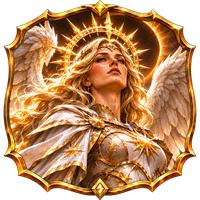
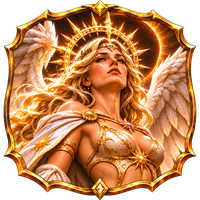
Gegner-Mix in der Kampagne, neue Bilder Leuchtturmwärterin, neues Aurel-Porträt
- Gefechte 1–3 Bronze, 4–8 Bronze und Silber mit gelegentlichem Gold, ab 9 immer Silber und Gold, Endgegner mit Gefolge
- Leuchtturmwärterin: Standard- und Sonderbild im Glutstein-Stil
- Neues Porträt der Erzseraphin Aurel
- Endgegner neu abgestimmt

Claude-Session: https://claude.ai/code/session_01WekbcN7x8tduXtes7QLsE3

diff --git a/sw.js b/sw.js
@@ -1,5 +1,5 @@
 /* Offline-Speicher der Web-App. Wird von build.py erzeugt, nicht von Hand bearbeiten (Vorlage: sw-vorlage.js). */
-const VERSION='glutstein-67c3e3dce9';
+const VERSION='glutstein-927b3192de';
 const DATEIEN=["./", "index.html", "manifest.webmanifest", "bilder/abgrundkoenigin.jpg", "bilder/alteiche-s.jpg", "bilder/alteiche.jpg", "bilder/apotheker.jpg", "bilder/aschekobold.jpg", "bilder/aschendrache-s.jpg", "bilder/aschendrache.jpg", "bilder/aurel.jpg", "bilder/baeuerin.jpg", "bilder/baumeisterin.jpg", "bilder/borkenbaer.jpg", "bilder/brandbogner-s.jpg", "bilder/brandbogner.jpg", "bilder/brunnending.jpg", "bilder/daemmerkatze.jpg", "bilder/dampfritter.jpg", "bilder/dornenhirsch-s.jpg", "bilder/dornenhirsch.jpg", "bilder/dornling.jpg", "bilder/dschinn.jpg", "bilder/einbaumfischer.jpg", "bilder/eklipsenwaechter.jpg", "bilder/enterkapitaen.jpg", "bilder/erfinderin.jpg", "bilder/ertrunkenerwaechter.jpg", "bilder/erwachter.jpg", "bilder/essenlehrling.jpg", "bilder/feuerschlucker.jpg", "bilder/feuerspeierin.jpg", "bilder/fischerin.jpg", "bilder/flammenhexe-s.jpg", "bilder/flammenhexe.jpg", "bilder/flammenkultistin.jpg", "bilder/fliegerass.jpg", "bilder/flugschuelerin.jpg", "bilder/funkenwicht-s.jpg", "bilder/funkenwicht.jpg", "bilder/gefallenerengel.jpg", "bilder/geisterqualle.jpg", "bilder/geisterschiff.jpg", "bilder/gesichtsloser.jpg", "bilder/gezeitenschamanin.jpg", "bilder/gezeitenwache-s.jpg", "bilder/gezeitenwache.jpg", "bilder/ghul.jpg", "bilder/giftpilzling.jpg", "bilder/gischtgeist.jpg", "bilder/glutaugen.jpg", "bilder/glutfalke.jpg", "bilder/glutskorpion.jpg", "bilder/glutsoldat.jpg", "bilder/glutstein.png", "bilder/glutwolf-s.jpg", "bilder/glutwolf.jpg", "bilder/grabkriecher-s.jpg", "bilder/grabkriecher.jpg", "bilder/grabraeuber.jpg", "bilder/hafenmeister.jpg", "bilder/himmelsschiff.jpg", "bilder/hohlegarde.jpg", "bilder/hohlerkoenig.jpg", "bilder/hohlkraehe.jpg", "bilder/holzfaeller.jpg", "bilder/icon-180.png", "bilder/icon-192.png", "bilder/icon-512.png", "bilder/icon-maskable.png", "bilder/inquisitorin.jpg", "bilder/irrlicht-s.jpg", "bilder/irrlicht.jpg", "bilder/jaegerin.jpg", "bilder/kanonierin.jpg", "bilder/kapitel-1.jpg", "bilder/kapitel-2.jpg", "bilder/kapitel-3.jpg", "bilder/kapitel-4.jpg", "bilder/kapitel-5.jpg", "bilder/karawanenfuehrerin.jpg", "bilder/karte-1.jpg", "bilder/karte-2.jpg", "bilder/karte-3.jpg", "bilder/karte-4.jpg", "bilder/karte-5.jpg", "bilder/kesselflicker.jpg", "bilder/knochenhirsch.jpg", "bilder/krabbenrotte.jpg", "bilder/kraehenschwarm-s.jpg", "bilder/kraehenschwarm.jpg", "bilder/kristallkarpfen.jpg", "bilder/laternenfisch.jpg", "bilder/lavahund.jpg", "bilder/lavaschuerfer.jpg", "bilder/leuchtturmwaerterin-s.jpg", "bilder/leuchtturmwaerterin.jpg", "bilder/leviathan-s.jpg", "bilder/leviathan.jpg", "bilder/lichtelfe.jpg", "bilder/lichtfalke.jpg", "bilder/lichtlibelle.jpg", "bilder/lichtmagier-s.jpg", "bilder/lichtmagier.jpg", "bilder/lichtritter-s.jpg", "bilder/lichtritter-s2.jpg", "bilder/lichtritter.jpg", "bilder/liga-0.png", "bilder/liga-1.png", "bilder/liga-2.png", "bilder/liga-3.png", "bilder/liga-4.png", "bilder/lotse.jpg", "bilder/magmagolem.jpg", "bilder/mangrovenriese.jpg", "bilder/matrose.jpg", "bilder/messerwerferin.jpg", "bilder/messingkoloss.jpg", "bilder/mitternachtsfuerstin-s.jpg", "bilder/mitternachtsfuerstin-s2.jpg", "bilder/mitternachtsfuerstin.jpg", "bilder/mondhexe.jpg", "bilder/mondpriesterin.jpg", "bilder/moosgeist.jpg", "bilder/moosling-s.jpg", "bilder/moosling.jpg", "bilder/morgenfalke.jpg", "bilder/muenze.png", "bilder/muraenenwaechter.jpg", "bilder/nachtfalter-s.jpg", "bilder/nachtfalter.jpg", "bilder/nebelheilerin-s.jpg", "bilder/nebelheilerin.jpg", "bilder/nekromant.jpg", "bilder/netzflickerin.jpg", "bilder/nomadenkriegerin.jpg", "bilder/novize.jpg", "bilder/ormak.jpg", "bilder/panzerschildkroete.jpg", "bilder/perlentaucherin-s.jpg", "bilder/perlentaucherin.jpg", "bilder/pilzhueterin.jpg", "bilder/pulveraffe.jpg", "bilder/puppenspieler.jpg", "bilder/rahmen-0.png", "bilder/rahmen-1.png", "bilder/rahmen-2.png", "bilder/rahmen-3.png", "bilder/raketenkobold.jpg", "bilder/rankenwuerger.jpg", "bilder/rudelfuehrerin-s.jpg", "bilder/rudelfuehrerin.jpg", "bilder/ruecken-abyss.jpg", "bilder/ruecken-bruecke.jpg", "bilder/ruecken-champion.jpg", "bilder/ruecken-daemmerung.jpg", "bilder/ruecken-erwachen.jpg", "bilder/ruecken-flut.jpg", "bilder/ruecken-glut.jpg", "bilder/ruecken-hain.jpg", "bilder/ruecken-kristall.jpg", "bilder/ruecken-luft.jpg", "bilder/ruecken-mangrove.jpg", "bilder/ruecken-nacht.jpg", "bilder/ruecken-orkan.jpg", "bilder/ruecken-perle.jpg", "bilder/ruecken-raeder.jpg", "bilder/ruecken-schmiede.jpg", "bilder/ruecken-sonne.jpg", "bilder/ruecken-totenwald.jpg", "bilder/ruecken-variete.jpg", "bilder/ruecken-wueste.jpg", "bilder/rueckseite.jpg", "bilder/runenschmiedin.jpg", "bilder/schattendolch-s.jpg", "bilder/schattendolch.jpg", "bilder/schattenknecht.jpg", "bilder/schiffsbaumeisterin.jpg", "bilder/schiffsmaedchen.jpg", "bilder/schlackengolem.jpg", "bilder/schlackenhauptmann.jpg", "bilder/schlackenriese-s.jpg", "bilder/schlackenriese.jpg", "bilder/schlammkrokodil.jpg", "bilder/schwanenritter.jpg", "bilder/seeherrin.jpg", "bilder/seelenfaenger.jpg", "bilder/seelenhaendlerin-s.jpg", "bilder/seelenhaendlerin.jpg", "bilder/seenixe.jpg", "bilder/seeungeheuer.jpg", "bilder/seiltaenzerin.jpg", "bilder/seraphin-s.jpg", "bilder/seraphin.jpg", "bilder/sirene.jpg", "bilder/sonneneinhorn-s.jpg", "bilder/sonneneinhorn.jpg", "bilder/sonnenloewe-s.jpg", "bilder/sonnenloewe.jpg", "bilder/sonnenschmied.jpg", "bilder/sonnenwaechter.jpg", "bilder/sphinx.jpg", "bilder/steinmetz.jpg", "bilder/strahlende.jpg", "bilder/sturmrufer-s.jpg", "bilder/sturmrufer.jpg", "bilder/sym-atk.png", "bilder/sym-held.png", "bilder/sym-hp.png", "bilder/tentakelbrut.jpg", "bilder/tiefenkrake.jpg", "bilder/tiefseeschlange.jpg", "bilder/tisch-asche.jpg", "bilder/tisch-blau.jpg", "bilder/tisch-gruen.jpg", "bilder/tisch-kristall.jpg", "bilder/tisch-rot.jpg", "bilder/tisch-schmiede.jpg", "bilder/tisch-tiefsee.jpg", "bilder/tisch-totenwald.jpg", "bilder/tisch-werkstatt.jpg", "bilder/tisch-wolken.jpg", "bilder/totenherrin.jpg", "bilder/truhe-gold.png", "bilder/truhe-holz.png", "bilder/truhe-silber.png", "bilder/truhe.png", "bilder/tuempelgeist-s.jpg", "bilder/tuempelgeist.jpg", "bilder/uhrwerkhund.jpg", "bilder/urborke.jpg", "bilder/vampirjaegerin.jpg", "bilder/wahrsagerin.jpg", "bilder/waldkoenigin-s.jpg", "bilder/waldkoenigin.jpg", "bilder/wolkenkurier.jpg", "bilder/wuergewurzel.jpg", "bilder/wurzelhueter-s.jpg", "bilder/wurzelhueter.jpg", "bilder/wurzelkrabbe.jpg", "bilder/ysra.jpg", "bilder/zahnradkaefer.jpg", "bilder/zirkusdirektor.jpg", "bilder/seq/a1-2.jpg", "bilder/seq/a1-3.jpg", "bilder/seq/a2-2.jpg", "bilder/seq/a2-3.jpg", "bilder/seq/a3-2.jpg", "bilder/seq/a3-3.jpg", "bilder/seq/a4-2.jpg", "bilder/seq/a4-3.jpg", "bilder/seq/a5-1.jpg", "bilder/seq/a5-2.jpg", "bilder/seq/a5-3.jpg", "bilder/seq/ende-1.jpg", "bilder/seq/ende-2.jpg", "bilder/seq/ende-3.jpg", "bilder/seq/intro-1.jpg", "bilder/seq/intro-2.jpg", "bilder/seq/intro-3.jpg", "bilder/seq/intro-4.jpg", "bilder/seq/intro-5.jpg", "bilder/seq/intro-6.jpg", "bilder/helden/aurel.png", "bilder/helden/elfe.png", "bilder/helden/erfinderin.png", "bilder/helden/feuermagierin.png", "bilder/helden/gelehrter.png", "bilder/helden/hohlerkoenig.png", "bilder/helden/kapuze.png", "bilder/helden/meerhexe.png", "bilder/helden/nomadin.png", "bilder/helden/ormak.png", "bilder/helden/pirat.png", "bilder/helden/ritter.png", "bilder/helden/soeldner.png", "bilder/helden/urborke.png", "bilder/helden/vampirgraefin.png", "bilder/helden/ysra.png", "bilder/helden/zwerg.png", "bilder/items/erde-0.png", "bilder/items/erde-1.png", "bilder/items/erde-2.png", "bilder/items/erde-3.png", "bilder/items/feuer-0.png", "bilder/items/feuer-1.png", "bilder/items/feuer-2.png", "bilder/items/feuer-3.png", "bilder/items/licht-0.png", "bilder/items/licht-1.png", "bilder/items/licht-2.png", "bilder/items/licht-3.png", "bilder/items/rolle.png", "bilder/items/schatten-0.png", "bilder/items/schatten-1.png", "bilder/items/schatten-2.png", "bilder/items/schatten-3.png", "bilder/items/wasser-0.png", "bilder/items/wasser-1.png", "bilder/items/wasser-2.png", "bilder/items/wasser-3.png", "musik/arena.mp3", "musik/aufstieg.mp3", "musik/endgegner.mp3", "musik/kampf.mp3", "musik/karte.mp3", "musik/menue.mp3", "musik/niederlage.mp3", "musik/sieg.mp3", "musik/truhe.mp3"];
 self.addEventListener('install',e=>{
   e.waitUntil(caches.open(VERSION).then(c=>Promise.all(DATEIEN.map(f=>c.add(new Request(f,{cache:'reload'})).catch(()=>{})))).then(()=>self.skipWaiting()));

diff --git a/engine.js b/engine.js
@@ -278,8 +278,8 @@ const STAGE_NAMES=[]; for(let a=0;a<5;a++) for(let k=0;k<8;k++){ STAGE_NAMES.pus
 const UNLOCK_SLOTS=[3,8,13]; /* Gefecht 4, 9 und 14 eines Gebiets schalten je eine Karte frei. */
 /* Werte der alten 8 Gefechte; die neuen Zwischengefechte übernehmen die Werte des vorigen alten Gefechts (leichter). */
 const RMAX8=[[0,0,0,0,0,0,0,0],[0,0,0,1,1,1,1,1],[0,0,1,1,1,2,2,1],[0,0,0,1,1,1,1,1],[0,0,1,1,1,2,2,1]];
-const AREA_LVL8=[[1,2,2,3,4,5,5,6],[5,5,6,6,5,5,6,8],[9,9,10,10,10,10,10,8],[11,10,9,10,11,10,11,12],[16,16,17,17,18,18,18,20]];
-const AREA_SIZE8=[[3,3,4,4,4,5,5,4],[3,4,4,5,5,5,5,6],[5,6,6,7,7,8,7,8],[6,6,7,6,7,8,7,6],[4,5,5,6,6,6,6,7]];
+const AREA_LVL8=[[1,2,2,3,4,5,5,5],[5,5,6,6,5,5,6,7],[9,9,10,10,10,10,10,9],[11,10,9,10,11,10,11,12],[16,16,17,17,18,18,18,23]];
+const AREA_SIZE8=[[3,3,4,4,4,5,5,5],[3,4,4,5,5,5,5,6],[5,6,6,7,7,8,7,8],[6,6,7,6,7,8,7,6],[4,5,5,6,6,6,6,7]];
 const x16=(T,first)=>T.map((r,a)=>r.flatMap((v,k)=>[k?Math.min(r[k-1],v):first(v,a),v]));
 const RMAX=x16(RMAX8,v=>v), AREA_LVL=x16(AREA_LVL8,(v,a)=>a?AREA_LVL8[a-1][7]-1:v), AREA_SIZE=x16(AREA_SIZE8,v=>Math.max(3,v-1));
 const STAGES=STAGE_NAMES.map((n,k)=>{
@@ -293,14 +293,17 @@ const BOSS_ID=a=>(a+1)*STAGES_PER, LAST_ID=AREAS.length*STAGES_PER;
 function rng(seed){ return ()=>{ seed=seed+0x6D2B79F5|0; let t=Math.imul(seed^seed>>>15,1|seed); t=t+Math.imul(t^t>>>7,61|t)^t; return ((t^t>>>14)>>>0)/4294967296; }; }
 function hash(s){ let h=2166136261; for(let i=0;i<s.length;i++){ h^=s.charCodeAt(i); h=Math.imul(h,16777619); } return h>>>0; }
 /* Gegnerdeck eines Gefechts: nur Karten aus dem Set des Gebiets, Doppelte erlaubt (PvE). Heroisch: +8 Level. */
-/* Gegnerdeck: Gefechte 1–4 nur Bronze, ab 5 Silber, ab 9 der Gold-Elitegegner, Gefecht 16 der Endgegner.
-   Ab dem zweiten Abschnitt ist immer eine Karte der neuen Stufe dabei, abwechselnd, damit jeder Gegner auftaucht. */
-function stageMaxR(st){ return st.boss?3:st.i<4?0:st.i<8?1:2; }
+/* Gegnerdeck als Mix: Gefechte 1–3 nur Bronze, 4–8 Bronze und Silber mit gelegentlichem Gold,
+   ab 9 in jedem Kampf mindestens ein Silber und ein Gold, Gefecht 16 der Endgegner mit Gefolge aus allen Stufen. */
 function stageDeck(st,hero){
-  const r=rng(hash('g'+st.id)), mr=Math.min(2,stageMaxR(st)), set=BASE.filter(c=>c.set===st.set), pool=set.filter(c=>c.r<=mr), ids=[];
-  if(st.boss) ids.push(set.find(c=>c.r===3).id);
-  if(mr>0){ const lead=set.filter(c=>c.r===mr); ids.push(lead[st.i%lead.length].id); }
-  while(ids.length<st.size){ const w=pool.map(c=>c.r===mr?2:1), sum=w.reduce((a,b)=>a+b,0); let v=r()*sum, i=0; while(v>w[i]&&i<w.length-1){ v-=w[i]; i++; } ids.push(pool[i].id); }
+  const r=rng(hash('g'+st.id)), set=BASE.filter(c=>c.set===st.set), of=x=>set.filter(c=>c.r===x), pick=a=>a[Math.floor(r()*a.length)].id, ids=[];
+  let w;
+  if(st.boss){ ids.push(of(3)[0].id); ids.push(pick(of(2))); ids.push(pick(of(1))); w=[2,2,1]; }
+  else if(st.i<3) w=[1,0,0];
+  else if(st.i<8){ ids.push(pick(of(1))); w=[3,2,st.i>=5&&r()<.4?1:0]; if(w[2]) { ids.push(of(2)[0].id); w[2]=0; } }
+  else { ids.push(pick(of(1))); ids.push(of(2)[0].id); w=[2,2,st.i>=12?1:0]; }
+  const sum=w[0]+w[1]+w[2];
+  while(ids.length<st.size){ let v=r()*sum, k=0; while(v>=w[k]&&k<2){ v-=w[k]; k++; } ids.push(pick(of(k))); }
   const lvl=Math.min(MAXLVL,st.lvl+(hero?8:0)), star=Math.min(MAXSTAR,Math.ceil(lvl/5));
   return ids.map(id=>({id,lvl,star,weak:st.weak&&!hero}));
 }

diff --git a/index.html b/index.html
@@ -881,8 +881,8 @@ const STAGE_NAMES=[]; for(let a=0;a<5;a++) for(let k=0;k<8;k++){ STAGE_NAMES.pus
 const UNLOCK_SLOTS=[3,8,13]; /* Gefecht 4, 9 und 14 eines Gebiets schalten je eine Karte frei. */
 /* Werte der alten 8 Gefechte; die neuen Zwischengefechte übernehmen die Werte des vorigen alten Gefechts (leichter). */
 const RMAX8=[[0,0,0,0,0,0,0,0],[0,0,0,1,1,1,1,1],[0,0,1,1,1,2,2,1],[0,0,0,1,1,1,1,1],[0,0,1,1,1,2,2,1]];
-const AREA_LVL8=[[1,2,2,3,4,5,5,6],[5,5,6,6,5,5,6,8],[9,9,10,10,10,10,10,8],[11,10,9,10,11,10,11,12],[16,16,17,17,18,18,18,20]];
-const AREA_SIZE8=[[3,3,4,4,4,5,5,4],[3,4,4,5,5,5,5,6],[5,6,6,7,7,8,7,8],[6,6,7,6,7,8,7,6],[4,5,5,6,6,6,6,7]];
+const AREA_LVL8=[[1,2,2,3,4,5,5,5],[5,5,6,6,5,5,6,7],[9,9,10,10,10,10,10,9],[11,10,9,10,11,10,11,12],[16,16,17,17,18,18,18,23]];
+const AREA_SIZE8=[[3,3,4,4,4,5,5,5],[3,4,4,5,5,5,5,6],[5,6,6,7,7,8,7,8],[6,6,7,6,7,8,7,6],[4,5,5,6,6,6,6,7]];
 const x16=(T,first)=>T.map((r,a)=>r.flatMap((v,k)=>[k?Math.min(r[k-1],v):first(v,a),v]));
 const RMAX=x16(RMAX8,v=>v), AREA_LVL=x16(AREA_LVL8,(v,a)=>a?AREA_LVL8[a-1][7]-1:v), AREA_SIZE=x16(AREA_SIZE8,v=>Math.max(3,v-1));
 const STAGES=STAGE_NAMES.map((n,k)=>{
@@ -896,14 +896,17 @@ const BOSS_ID=a=>(a+1)*STAGES_PER, LAST_ID=AREAS.length*STAGES_PER;
 function rng(seed){ return ()=>{ seed=seed+0x6D2B79F5|0; let t=Math.imul(seed^seed>>>15,1|seed); t=t+Math.imul(t^t>>>7,61|t)^t; return ((t^t>>>14)>>>0)/4294967296; }; }
 function hash(s){ let h=2166136261; for(let i=0;i<s.length;i++){ h^=s.charCodeAt(i); h=Math.imul(h,16777619); } return h>>>0; }
 /* Gegnerdeck eines Gefechts: nur Karten aus dem Set des Gebiets, Doppelte erlaubt (PvE). Heroisch: +8 Level. */
-/* Gegnerdeck: Gefechte 1–4 nur Bronze, ab 5 Silber, ab 9 der Gold-Elitegegner, Gefecht 16 der Endgegner.
-   Ab dem zweiten Abschnitt ist immer eine Karte der neuen Stufe dabei, abwechselnd, damit jeder Gegner auftaucht. */
-function stageMaxR(st){ return st.boss?3:st.i<4?0:st.i<8?1:2; }
+/* Gegnerdeck als Mix: Gefechte 1–3 nur Bronze, 4–8 Bronze und Silber mit gelegentlichem Gold,
+   ab 9 in jedem Kampf mindestens ein Silber und ein Gold, Gefecht 16 der Endgegner mit Gefolge aus allen Stufen. */
 function stageDeck(st,hero){
-  const r=rng(hash('g'+st.id)), mr=Math.min(2,stageMaxR(st)), set=BASE.filter(c=>c.set===st.set), pool=set.filter(c=>c.r<=mr), ids=[];
-  if(st.boss) ids.push(set.find(c=>c.r===3).id);
-  if(mr>0){ const lead=set.filter(c=>c.r===mr); ids.push(lead[st.i%lead.length].id); }
-  while(ids.length<st.size){ const w=pool.map(c=>c.r===mr?2:1), sum=w.reduce((a,b)=>a+b,0); let v=r()*sum, i=0; while(v>w[i]&&i<w.length-1){ v-=w[i]; i++; } ids.push(pool[i].id); }
+  const r=rng(hash('g'+st.id)), set=BASE.filter(c=>c.set===st.set), of=x=>set.filter(c=>c.r===x), pick=a=>a[Math.floor(r()*a.length)].id, ids=[];
+  let w;
+  if(st.boss){ ids.push(of(3)[0].id); ids.push(pick(of(2))); ids.push(pick(of(1))); w=[2,2,1]; }
+  else if(st.i<3) w=[1,0,0];
+  else if(st.i<8){ ids.push(pick(of(1))); w=[3,2,st.i>=5&&r()<.4?1:0]; if(w[2]) { ids.push(of(2)[0].id); w[2]=0; } }
+  else { ids.push(pick(of(1))); ids.push(of(2)[0].id); w=[2,2,st.i>=12?1:0]; }
+  const sum=w[0]+w[1]+w[2];
+  while(ids.length<st.size){ let v=r()*sum, k=0; while(v>=w[k]&&k<2){ v-=w[k]; k++; } ids.push(pick(of(k))); }
   const lvl=Math.min(MAXLVL,st.lvl+(hero?8:0)), star=Math.min(MAXSTAR,Math.ceil(lvl/5));
   return ids.map(id=>({id,lvl,star,weak:st.weak&&!hero}));
 }
